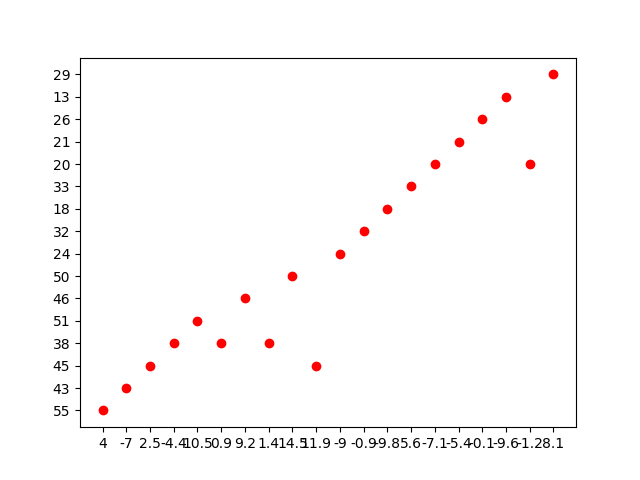
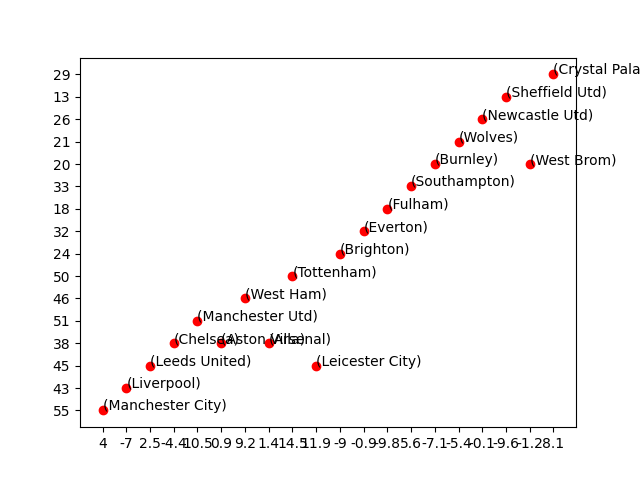
adding labelling to data points

diff --git a/data-viz.py b/data-viz.py
@@ -57,23 +57,37 @@ class dataViz:
         return(data)
 
     # def visualise(self, xList, yList):
-    def visualise(self, d, xList, yList):
-
-        plt.plot(xList, yList, 'ro', data=d)
+    def visualise(self, squads, d, xLabel, yLabel):
+        fig = plt.figure()
+        ax = fig.add_subplot(111)
+        
+        ax.plot(xLabel, yLabel, 'ro', data=d)
         # plt.plot(xList, yList, 'ro')
+
+        xData = d[xLabel]
+        yData = d[yLabel]
+        squadIdx = 1;
+
+        for xy in zip(xData,yData):
+            ax.annotate('(%s)' % squads[squadIdx], xy=xy, textcoords='data')
+            squadIdx += 1
+
         plt.savefig('xA_vs_A.png')
         
+        ax.grid()
         plt.show
         
 
 def main():
     data = {};
     viz = dataViz('fbref_squad_passing.csv')
-    teamRow = viz.getRow('Arsenal')
 
     map = viz.colNameMap(); 
+
     xAData = viz.getColumn('A-xA')
     AData = viz.getColumn('Ast')
+    squads = viz.getColumn('Squad')
+
     filtered_xA = viz.remAlphaBs(xAData);
     filtered_A = viz.remAlphaBs(AData)
 
@@ -81,7 +95,7 @@ def main():
     data['Ast'] = filtered_A
 
     # viz.visualise(filtered_xA, filtered_A);
-    viz.visualise(data, 'A-xA', 'Ast')
+    viz.visualise(squads, data, 'A-xA', 'Ast')
     # print(titles)
 
 if __name__ == "__main__":
